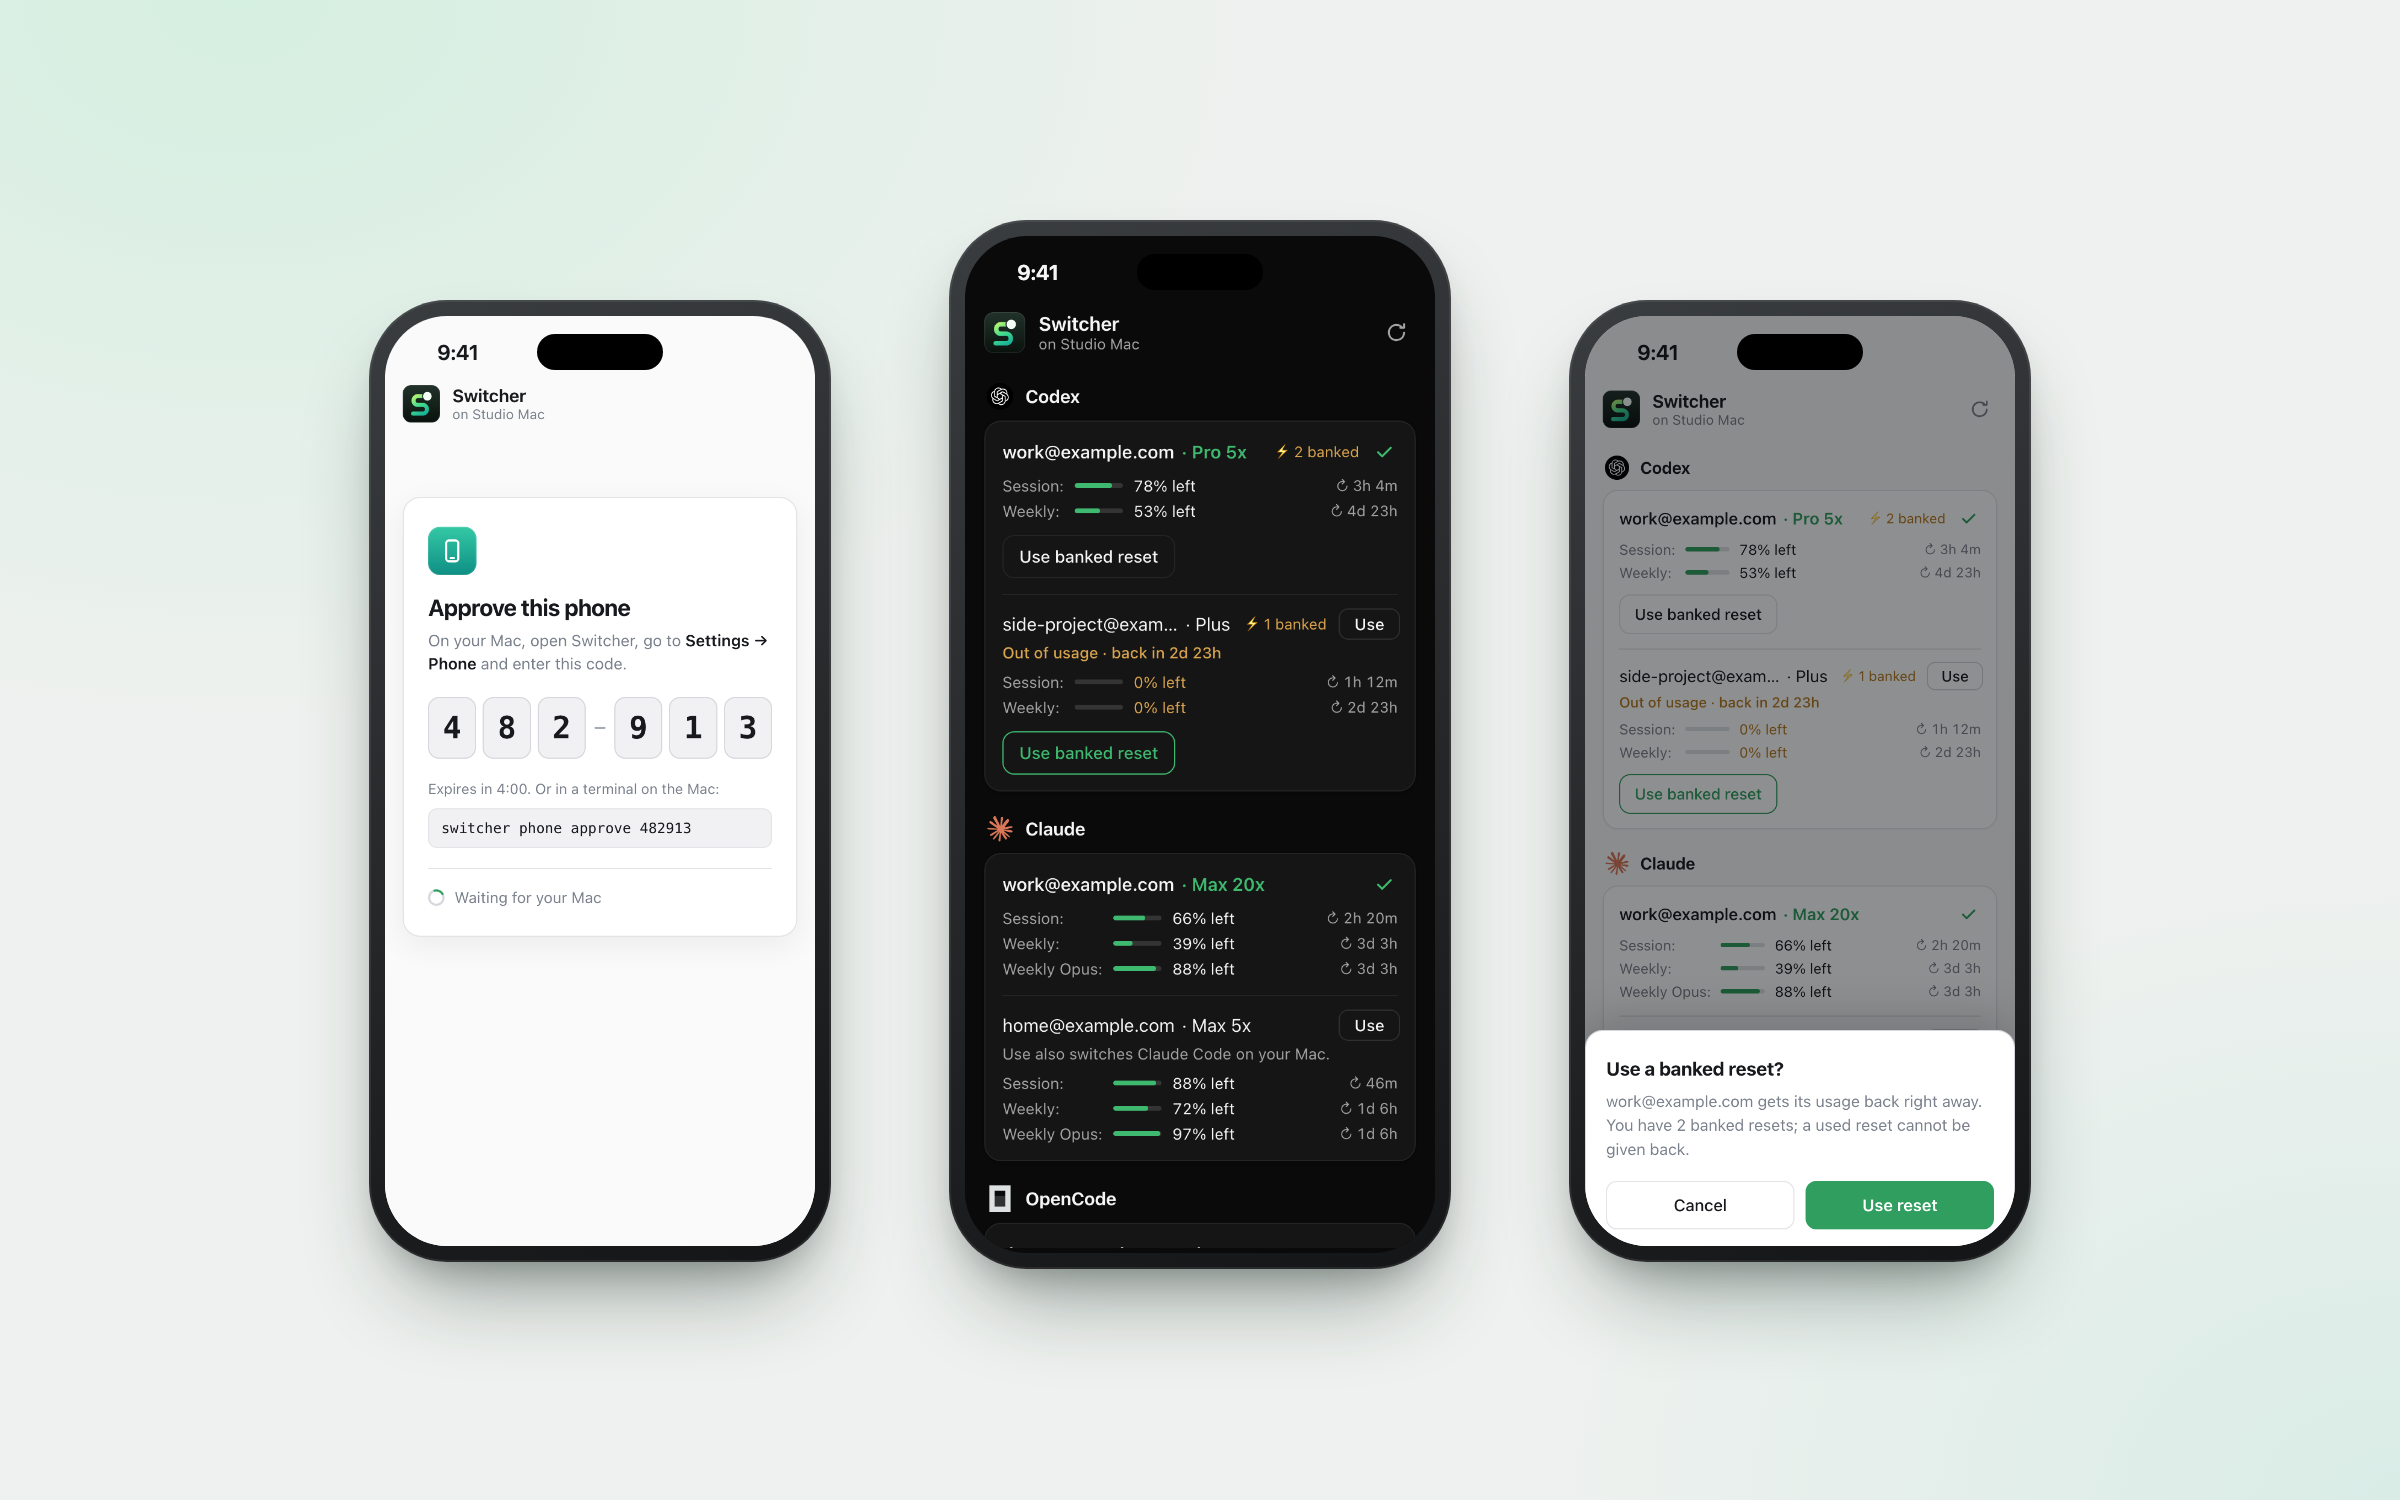
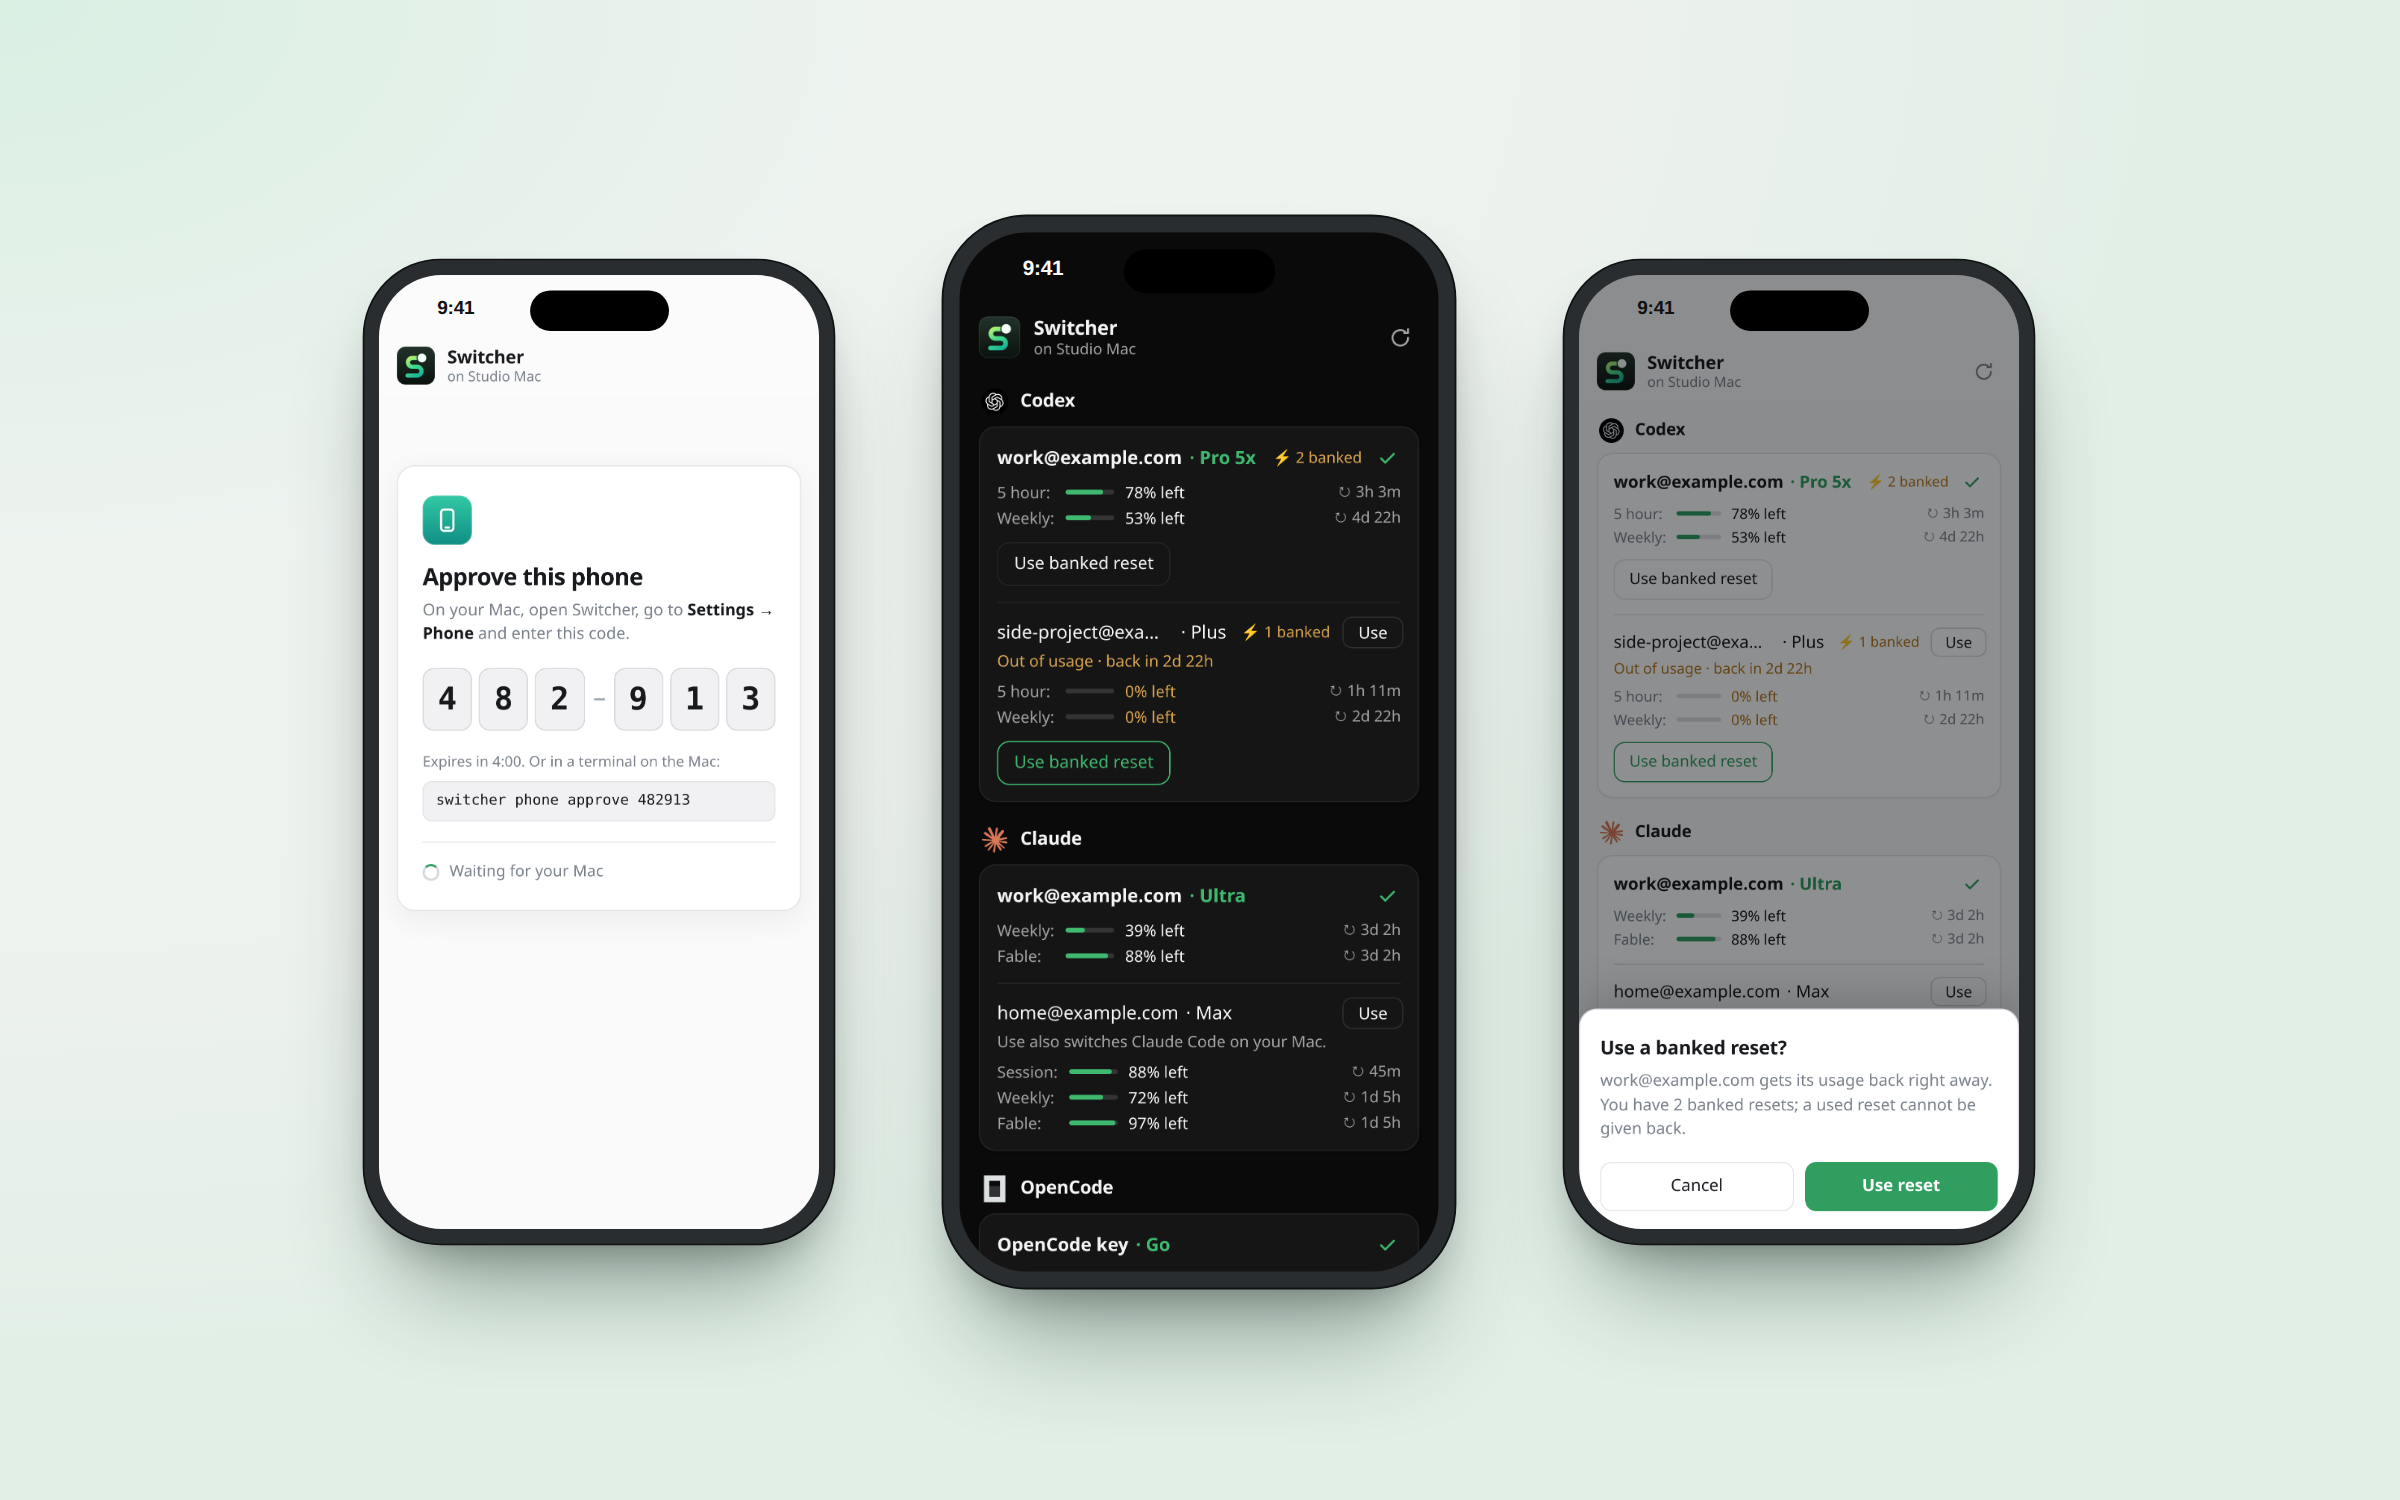
README pictures and tour: Ultra and Max, the Fable window, no session limit on Ultra
Redrawn from the same made-up accounts: the dashboard by the real web app,
the menu bar by its real views on a Mac, the terminal from the real command
output, the phone by the real phone page. The Ultra account shows Weekly and
Fable; the Max account keeps its 5-hour session. Costs list Fable first.

diff --git a/README.md b/README.md
@@ -50,9 +50,11 @@ Desktop relay, Claude Code uses the account you pick and keeps its login, so
 Remote Control sessions survive a switch. All of it from the menu bar, the
 dashboard or `switcher use`.
 
-Every quota is in view while you choose: session, weekly and monthly windows
-with reset countdowns, side by side per account if you merge them, with
-optional alerts when a window resets.
+Every quota is in view while you choose: session, weekly, monthly and
+per-model windows (Fable's, say) with reset countdowns, side by side per
+account if you merge them, with optional alerts when a window resets. An
+account shows the windows its plan has: a Claude Ultra account, for one, has
+no 5-hour session limit.
 
 <p align="center">
   <img src="docs/screenshots/merged.png" width="820" alt="Merged accounts: both Claude accounts side by side per quota window, with a usage limit marked on one">
